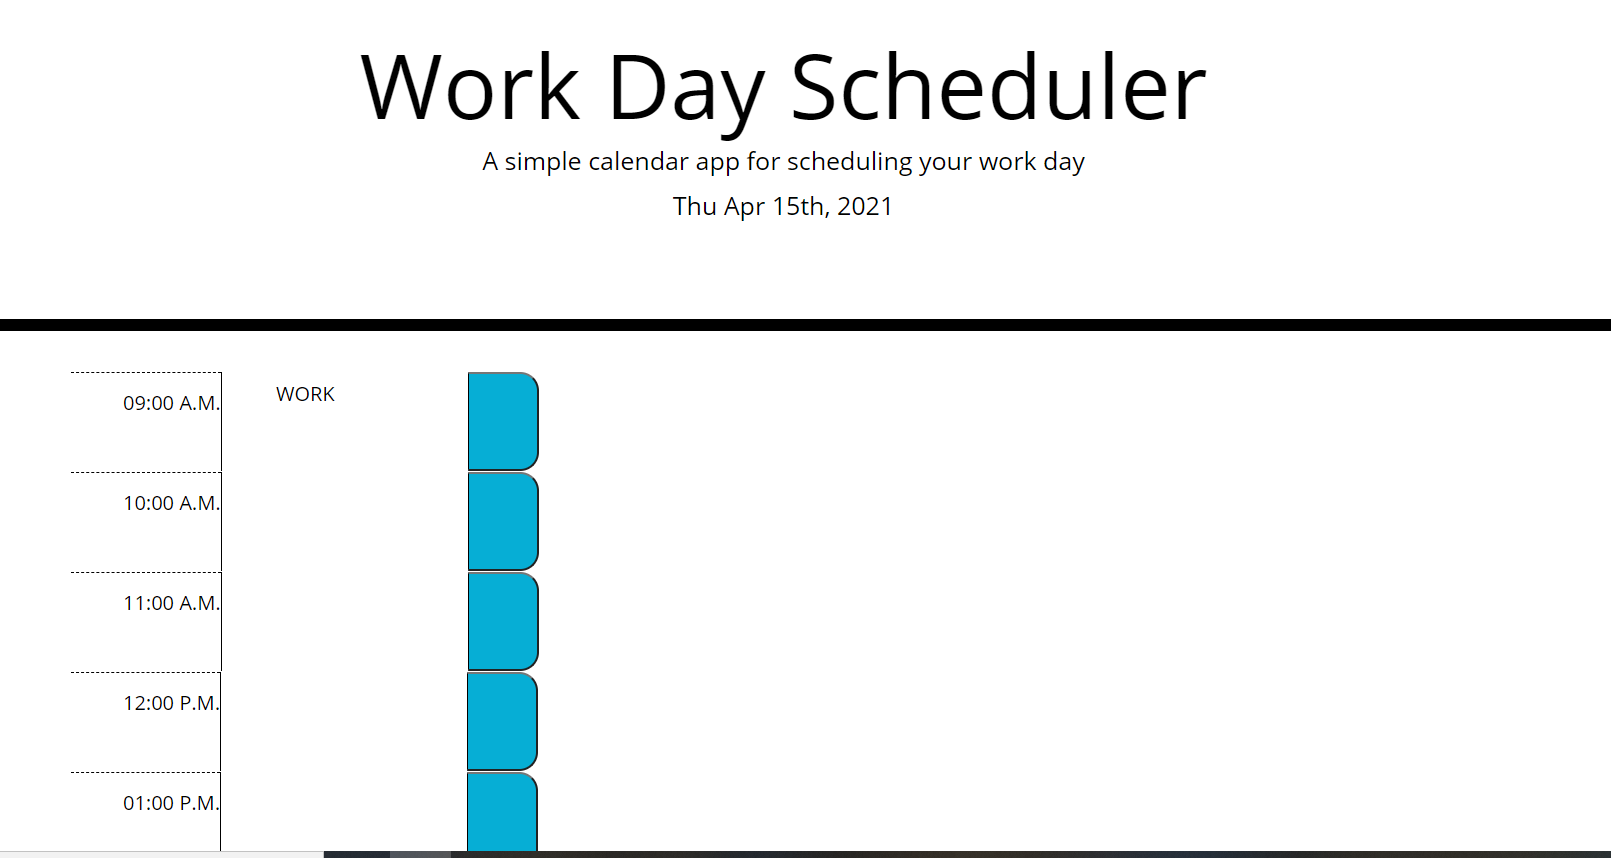
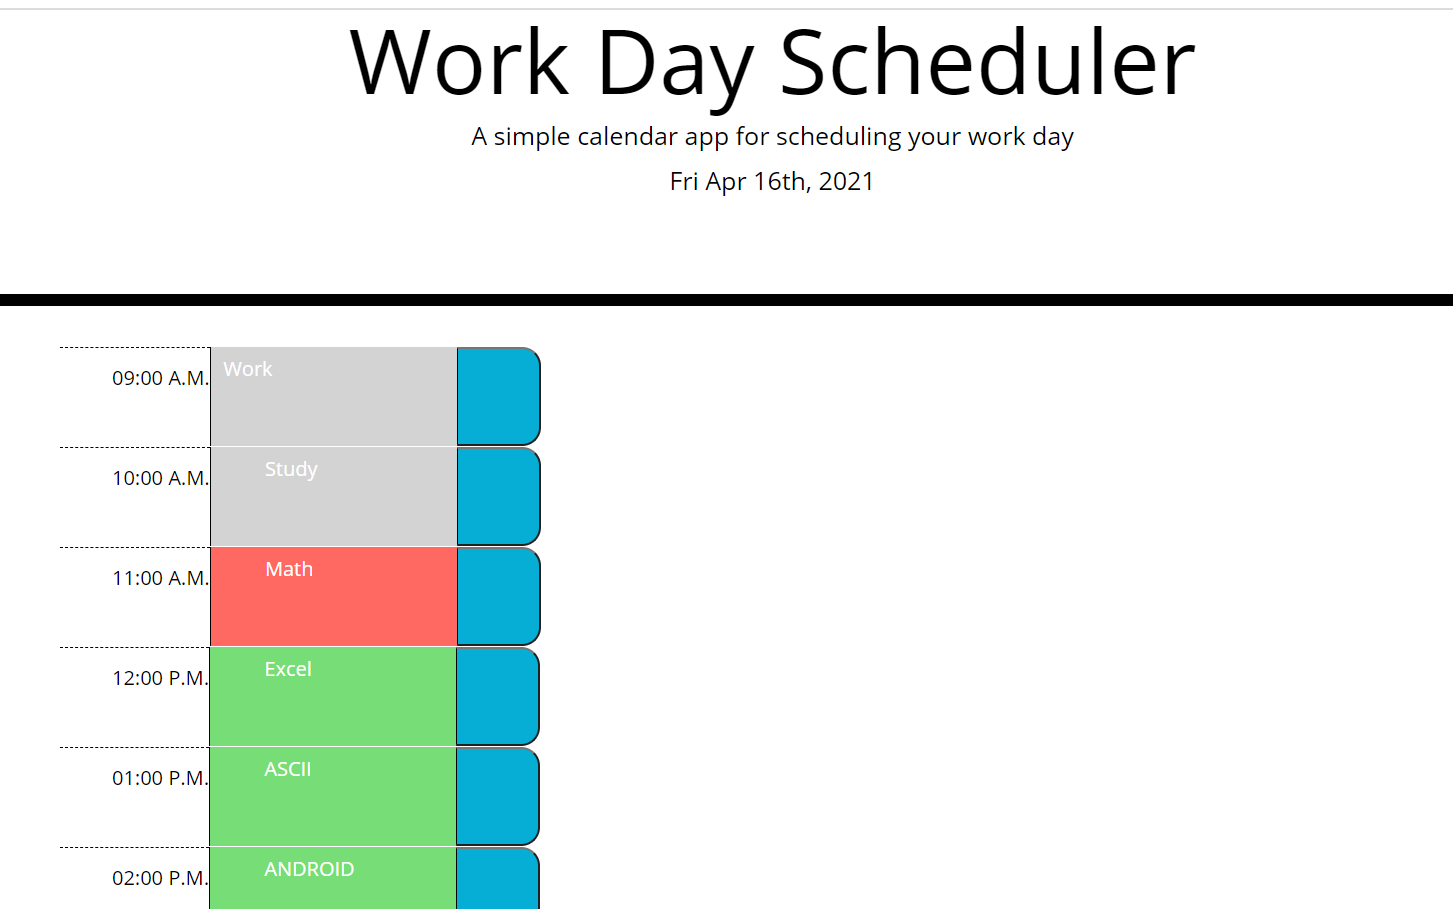
final version - v 3.0

Changed region(s): [[0.0, 0.303, 1.0, 1.0], [0.2168, 0.0303, 0.8362, 0.2727]]

diff --git a/script.js b/script.js
@@ -9,9 +9,20 @@ var save14 = $('.saveBtn14');
 var save15 = $('.saveBtn15');
 var save16 = $('.saveBtn16');
 var save17 = $('.saveBtn17');
-var date = new Date();
-date = date.getHours();
-alert(date);
+var date = new Date().getHours();
+
+for (var i=9; i<=17; i++){
+    if(i<date){
+        //var temp = "description" + i;
+        $("#description"+i).addClass( "past" );
+    }
+    else if(i==date){
+        $("#description"+i).addClass( "present" );
+    }
+    else{
+        $("#description"+i).addClass( "future" );
+    }
+}
 
 $("#currentDay").text(today.format("ddd MMM Do, YYYY"));
 
